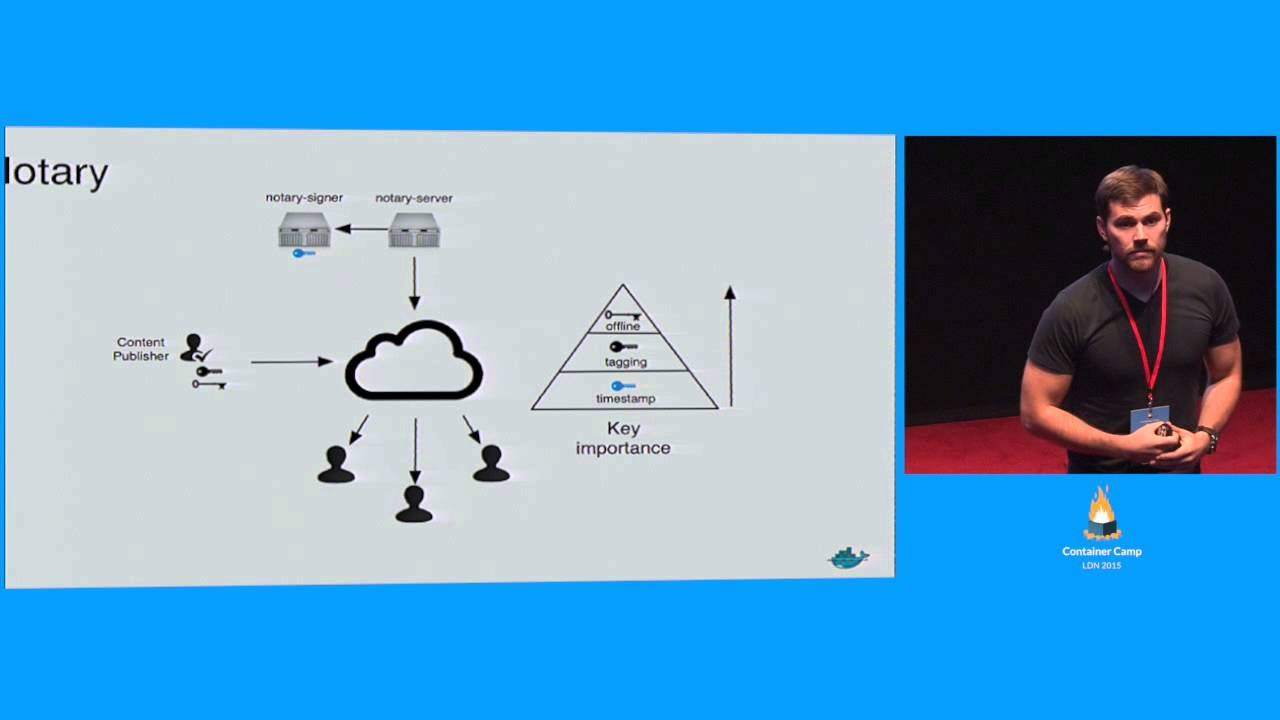
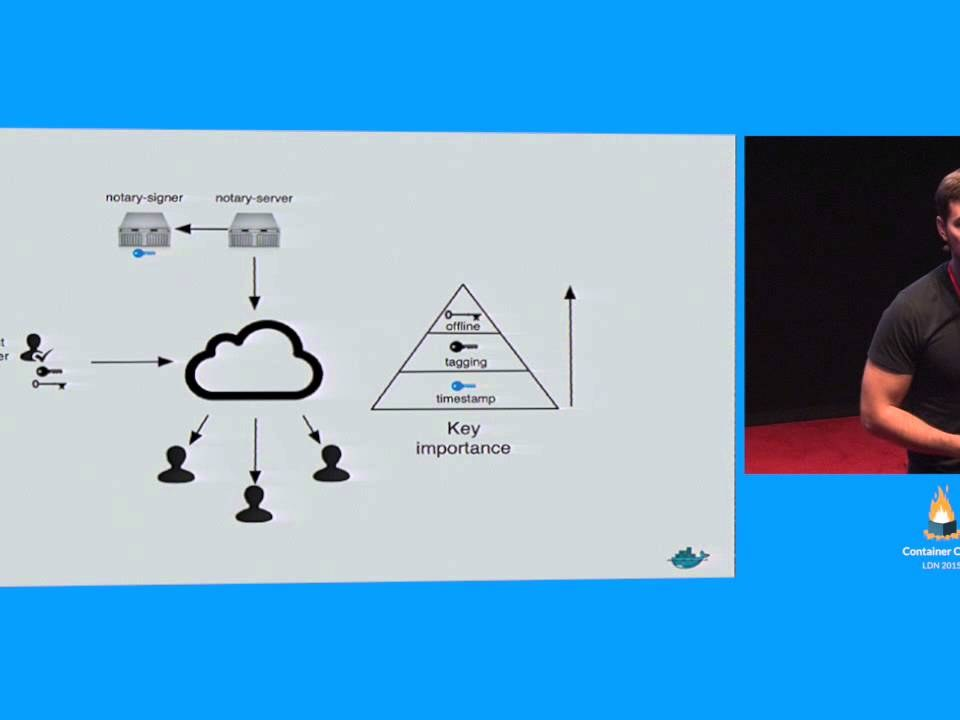
Crop talk thumbnails to 4:3
Re-download the six YouTube thumbs and center-crop them to 960x720
so the speaking cards are a consistent 4:3 grid.

diff --git a/src/lib/site.ts b/src/lib/site.ts
@@ -218,42 +218,42 @@ export const TALKS = [
     title: "Bitcoin ETFs",
     href: "https://www.youtube.com/watch?v=Uaz9Ahbqngw",
     image: "/assets/talks/talk-1.jpg",
-    width: 1280,
+    width: 960,
     height: 720,
   },
   {
     title: "Regulatory clarity in crypto",
     href: "https://www.youtube.com/watch?v=QVB0qd67JpY",
     image: "/assets/talks/talk-2.jpg",
-    width: 1280,
+    width: 960,
     height: 720,
   },
   {
     title: "Institutions coming to crypto",
     href: "https://www.youtube.com/watch?v=sbBgQCGqxZk",
     image: "/assets/talks/talk-3.jpg",
-    width: 1280,
+    width: 960,
     height: 720,
   },
   {
     title: "A Docker image walks into a notary",
     href: "https://www.youtube.com/watch?v=JvjdfQC8jxM",
     image: "/assets/talks/talk-4.jpg",
-    width: 1280,
+    width: 960,
     height: 720,
   },
   {
     title: "Heart & Hustle of Portugal",
     href: "https://www.youtube.com/watch?v=YundCatIPec",
     image: "/assets/talks/talk-5.jpg",
-    width: 1280,
+    width: 960,
     height: 720,
   },
   {
     title: "Bitcoin going mainstream",
     href: "https://www.youtube.com/watch?v=MHcD27Q0Dm4",
     image: "/assets/talks/talk-6.jpg",
-    width: 1280,
+    width: 960,
     height: 720,
   },
 ];

diff --git a/src/styles/global.css b/src/styles/global.css
@@ -295,7 +295,7 @@ h2 {
 .talk-card:hover { color: var(--fg); border-color: var(--muted); }
 .talk-thumb {
   display: block;
-  aspect-ratio: 16 / 9;
+  aspect-ratio: 4 / 3;
   background: var(--bg-elev);
   overflow: hidden;
 }
